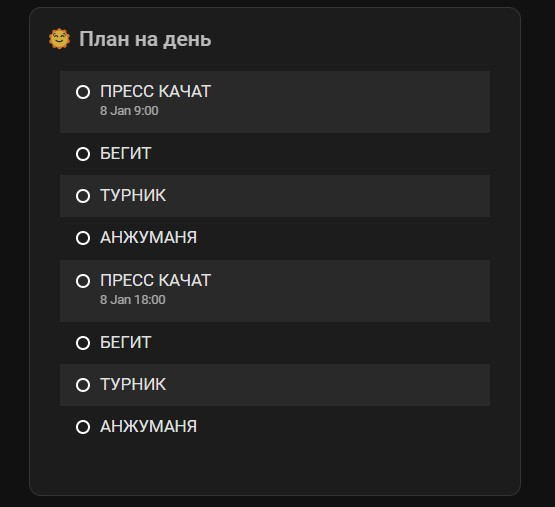
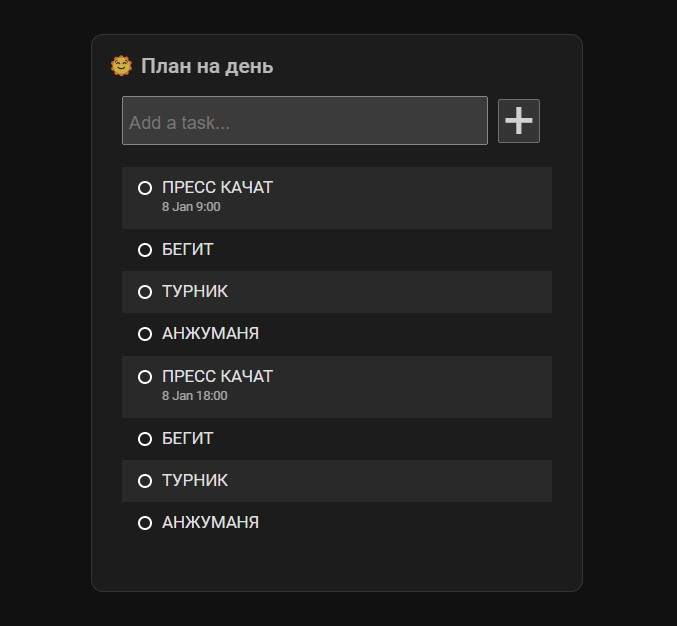
Allow adding new tasks

diff --git a/www/todoist-card.js b/www/todoist-card.js
@@ -2,6 +2,8 @@
 
 const INPUT_TEXT_LAST_CLOSED = 'input_text.todoist_last_closed_task';
 const INPUT_TEXT_ALL_CLOSED = 'input_text.todoist_all_closed_tasks';
+const INPUT_TEXT_NEW_TASK = 'input_text.todoist_new_task';
+const TODOIST_PROJECT_LINK = 'https://todoist.com/app/project/';
 const MONTHS = ['Jan', 'Feb', 'Mar', 'Apr', 'May', 'Jun', 'Jul', 'Aug', 'Sep', 'Oct', 'Nov', 'Dec'];
 
 class TodoistCard extends HTMLElement {
@@ -16,7 +18,8 @@ class TodoistCard extends HTMLElement {
     set hass(hass) {
         const config = this.config;
         const maxEntries = config.max_entries || 10;
-        const showProjectName = config.show_project_name || true;
+        const showProjectName = (config.show_project_name == null) ? true : config.show_project_name;
+        const showInputArea = (config.show_input_area == null) ? true : config.show_input_area;
         const entityIds = config.entity ? [config.entity] : config.entities || [];
 
         const root = this.shadowRoot.getElementById('container');
@@ -28,24 +31,54 @@ class TodoistCard extends HTMLElement {
                 throw new Error("Entity State Unavailable");
             }
 
+            // Title
             if (showProjectName) {
                 const projectName = document.createElement('div');
                 projectName.className = 'project';
                 projectName.innerText = entity.attributes.friendly_name;
 
-                if (entity.attributes.project_url) {
-                    projectName.addEventListener('click', function () {
-                        window.open(entity.attributes.project_url, '_blank').focus();
-                    });
-                }
+                projectName.addEventListener('click', function () {
+                    window.open(TODOIST_PROJECT_LINK + entity.attributes.project_id, '_blank').focus();
+                });
 
                 root.appendChild(projectName);
             }
 
+            // New task input
+            if (showInputArea) {
+                const input = document.createElement('input');
+                input.type = 'text';
+                input.placeholder = 'Add a task...';
+                input.className = 'task-input';
+                const addButton = document.createElement('button');
+                addButton.innerText = '+';
+                addButton.className = 'task-input-btn';
+                addButton.addEventListener('click', event => {
+                    if (input.value) {
+                        hass.callService("input_text", "set_value", {
+                            entity_id: INPUT_TEXT_NEW_TASK,
+                            value: JSON.stringify({
+                                "project_id": entity.attributes.project_id,
+                                "sensor_id": entityId,
+                                "content": input.value
+                                    .slice(0, 255 - 45 - entity.attributes.project_id.length - entityId.length)
+                                // Input text fields are limited to 255 chars ^
+                            })
+                        });
+                    }
+                });
+
+                const inputArea = document.createElement('div');
+                inputArea.className = 'task-input-area';
+                inputArea.appendChild(input);
+                inputArea.appendChild(addButton);
+                root.appendChild(inputArea);
+            }
+
+            // Tasks
             const tasks = document.createElement('ul');
             tasks.className = 'tasks';
             tasks.id = 'todoist-tasks-' + entityId;
-
             entity.attributes.tasks.slice(0, maxEntries).forEach(apiTask => {
                 let dueToText = '';
                 if (apiTask.due && apiTask.due.date) {
@@ -145,11 +178,35 @@ class TodoistCard extends HTMLElement {
                 text-align: left;
                 padding: 10px 10px 5px 5px;
             }
+            
+            .task-input-area {
+                padding-top: 15px;
+                padding-bottom: 5px;
+                padding-inline-start: 20px;
+                padding-inline-end: 20px;
+                display: flex;
+                align-items: center;
+            }
+            
+            .task-input {
+                margin-right: 10px;
+                padding: 10px 10px 5px 5px;
+                line-height: 30px;
+                width: 85%;
+                font-size: 130%;
+            }
+            
+            .task-input-btn {
+                font-size: 400%;
+                opacity: 0.8;
+                line-height: 40px;
+                padding: 0 3px;
+            }
 
             .tasks {
                 width: 100%;
                 font-weight: 400;
-                font-size:120%;
+                font-size: 120%;
                 line-height: 1.5em;
                 padding-bottom: 20px;
                 padding-inline-start: 20px;

diff --git a/custom_components/todoist/sensor.py b/custom_components/todoist/sensor.py
@@ -20,7 +20,8 @@ from .const import (
     CONF_PROJECT_NAME,
     DEFAULT_ICON,
     INPUT_TEXT_LAST_CLOSED,
-    INPUT_TEXT_ALL_CLOSED
+    INPUT_TEXT_ALL_CLOSED,
+    INPUT_TEXT_NEW_TASK
 )
 
 _LOGGER = logging.getLogger(__name__)
@@ -78,24 +79,23 @@ class TodoistSensor(SensorEntity):
     @property
     def extra_state_attributes(self):
         return {
-            "project_url": self.project_url,
+            "project_id": str(self.project_id),
             "tasks": [task.to_dict() for task in self.tasks or []],
         }
 
     def update(self):
-        project = self.fetch_project()
-        self.project_name = self.project_name or project[0]
-        self.project_url = project[1]
+        if self.project_name.startswith('Project ID'):
+            # ^ Disable custom display name overrides
+            self.project_name = self.fetch_project_name()
         self.tasks = self.fetch_tasks()
 
-    def fetch_project(self) -> (str, str):
-        """Load Todoist project's name and URL"""
+    def fetch_project_name(self) -> str:
+        """Load Todoist project's name"""
         try:
-            project = self.api.get_project(project_id=self.project_id)
-            return project.name, project.url
+            return self.api.get_project(project_id=self.project_id).name
         except Exception as e:
             _LOGGER.warning(f"Could not load a project with id {self.project_id}", e)
-            return '', ''
+            return ''
 
     def fetch_tasks(self) -> list[Task]:
         """Load Todoist project's tasks"""
@@ -125,8 +125,10 @@ class TodoistSensor(SensorEntity):
         return tasks
 
     async def async_added_to_hass(self) -> None:
-        """Complete integration setup after being added to hass."""
+        """Complete integration setup after being added to hass.
+        Used for adding state change listeners for closed/added tasks"""
 
+        # Close selected tasks
         @callback
         async def close_task(event):
             state = self.hass.states.get(INPUT_TEXT_LAST_CLOSED).state
@@ -143,14 +145,43 @@ class TodoistSensor(SensorEntity):
                     self.hass.services.call, 'homeassistant', 'update_entity', {"entity_id": last_closed['sensor_id']}
                 )
 
+        def close_task_api(task_id: str) -> None:
+            try:
+                self.api.close_task(task_id=task_id)
+            except Exception as e:
+                _LOGGER.error(f"Could not close task {task_id}", e)
+
         self.async_on_remove(
             async_track_state_change_event(
                 self.hass, [INPUT_TEXT_LAST_CLOSED], close_task
             )
         )
 
-        def close_task_api(task_id: str) -> None:
+        # Add newly created tasks
+        @callback
+        async def add_task(event):
+            state = self.hass.states.get(INPUT_TEXT_NEW_TASK).state
+            if state:
+                new_task = json.loads(state)
+
+                try:
+                    await self.hass.async_add_executor_job(add_task_api, new_task['content'], new_task['project_id'])
+                except Exception as e:
+                    _LOGGER.error(f"Could not add new task to project {new_task['project_id']}", e)
+                    return
+
+                await self.hass.async_add_executor_job(
+                    self.hass.services.call, 'homeassistant', 'update_entity', {"entity_id": new_task['sensor_id']}
+                )
+
+        self.async_on_remove(
+            async_track_state_change_event(
+                self.hass, [INPUT_TEXT_NEW_TASK], add_task
+            )
+        )
+
+        def add_task_api(content: str, project_id: str) -> None:
             try:
-                self.api.close_task(task_id=task_id)
+                self.api.add_task(content=content, project_id=project_id)
             except Exception as e:
-                _LOGGER.error(f"Could not close task {task_id}", e)
+                _LOGGER.error(f"Could not add new task to project {project_id}", e)

diff --git a/custom_components/todoist/const.py b/custom_components/todoist/const.py
@@ -12,3 +12,4 @@ DEFAULT_ICON = "mdi:format-list-checkbox"
 
 INPUT_TEXT_LAST_CLOSED = "input_text.todoist_last_closed_task"
 INPUT_TEXT_ALL_CLOSED = "input_text.todoist_all_closed_tasks"
+INPUT_TEXT_NEW_TASK = 'input_text.todoist_new_task'

diff --git a/README.md b/README.md
@@ -55,6 +55,11 @@ You will need some data from Todoist to continue:
        name: "Todoist all closed tasks"
        max: 255 # This is the limit
        initial: ''
+     # Information about the added task
+     todoist_new_task: # Neither should you change this one
+       name: "Todoist new task"
+       max: 255
+       initial: ''
    ``````
 
 4. Restart Home Assistant again, check the logs for errors, and give it some time to fetch the data.
@@ -77,8 +82,9 @@ Having configured the sensor, it's time to setup the widget.
    type: custom:todoist-card
    entities:
      - sensor.tasks_for_today # Swap to your sensor ID
-       max_entries: 10 # Optional, number of tasks to show (default: 10)
-       show_project_name: true # Optional, show or hide the project name (default: true)
+    max_entries: 8 # Optional, number of tasks to show (default: 10)
+    show_project_name: true # Optional, show or hide the project name (default: true)
+    show_input_area: false # Optional, show or hide the area for adding a new task (default: true)
    ``````
 
 ## 🎨 Styling
